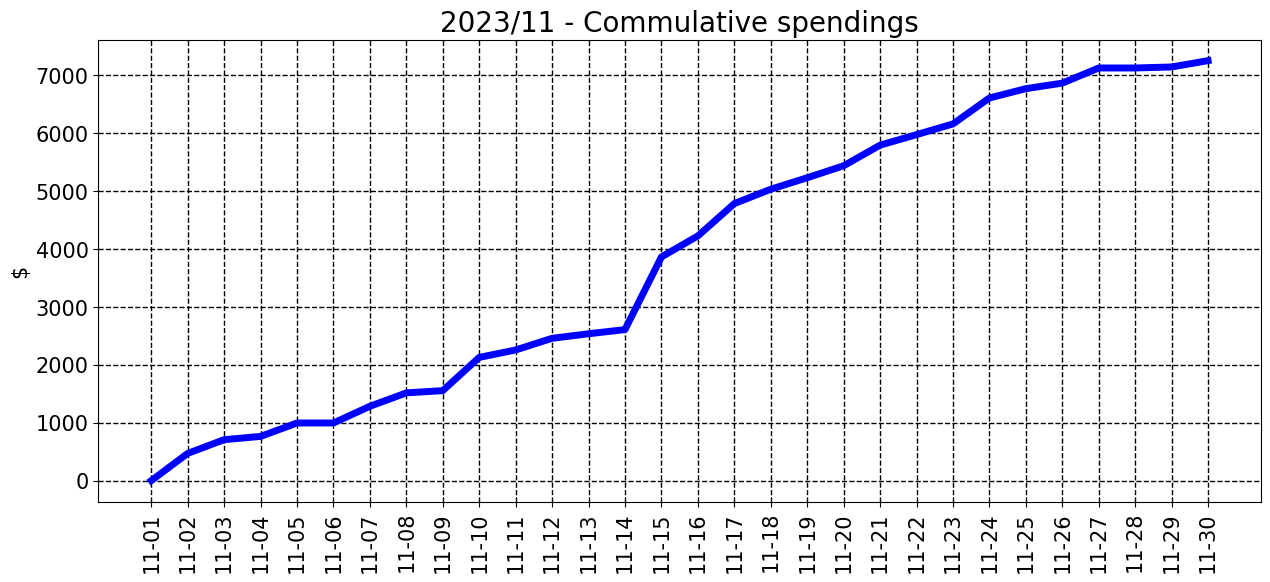
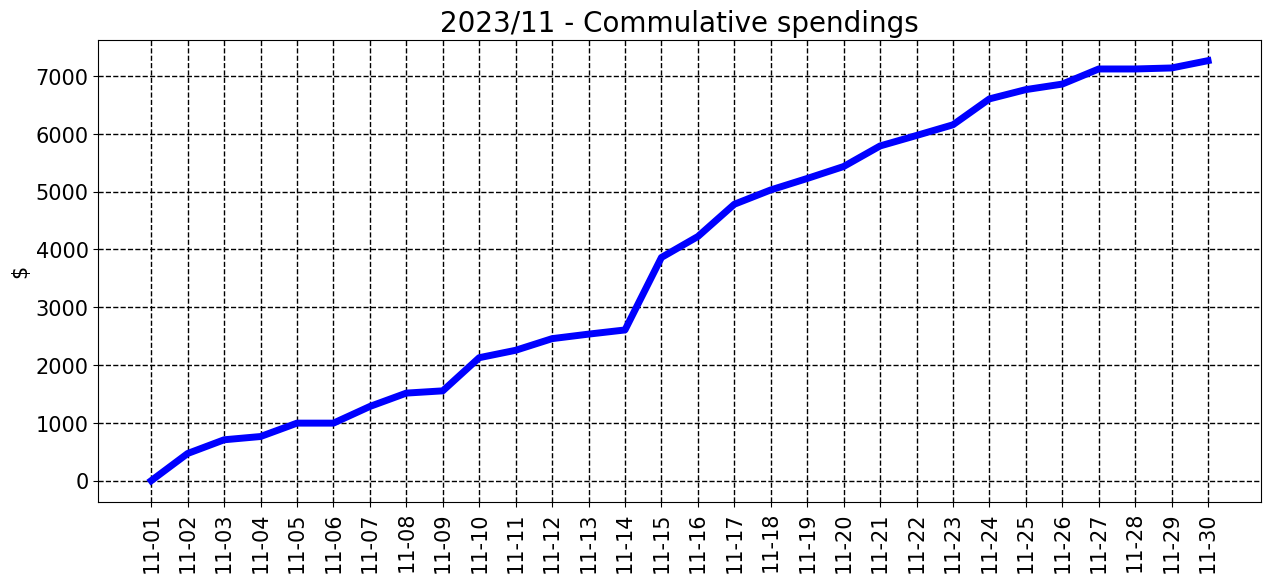
commit from python

diff --git a/README.md b/README.md
@@ -7,7 +7,7 @@ __________________________________
 <sub><sup>
 | Spent | Avg daily | End of month projection | Spent since 2023/7 |
 |---|---|---|---|
-| $7249.0  |  $241.6  | $7248.0  |  $27553.0  |
+| $7267.0  |  $242.2  | $7266.0  |  $27570.0  |
 </sub></sup>
 __________________________________
 ![graph_11_sum](graph_11_sum.png)
